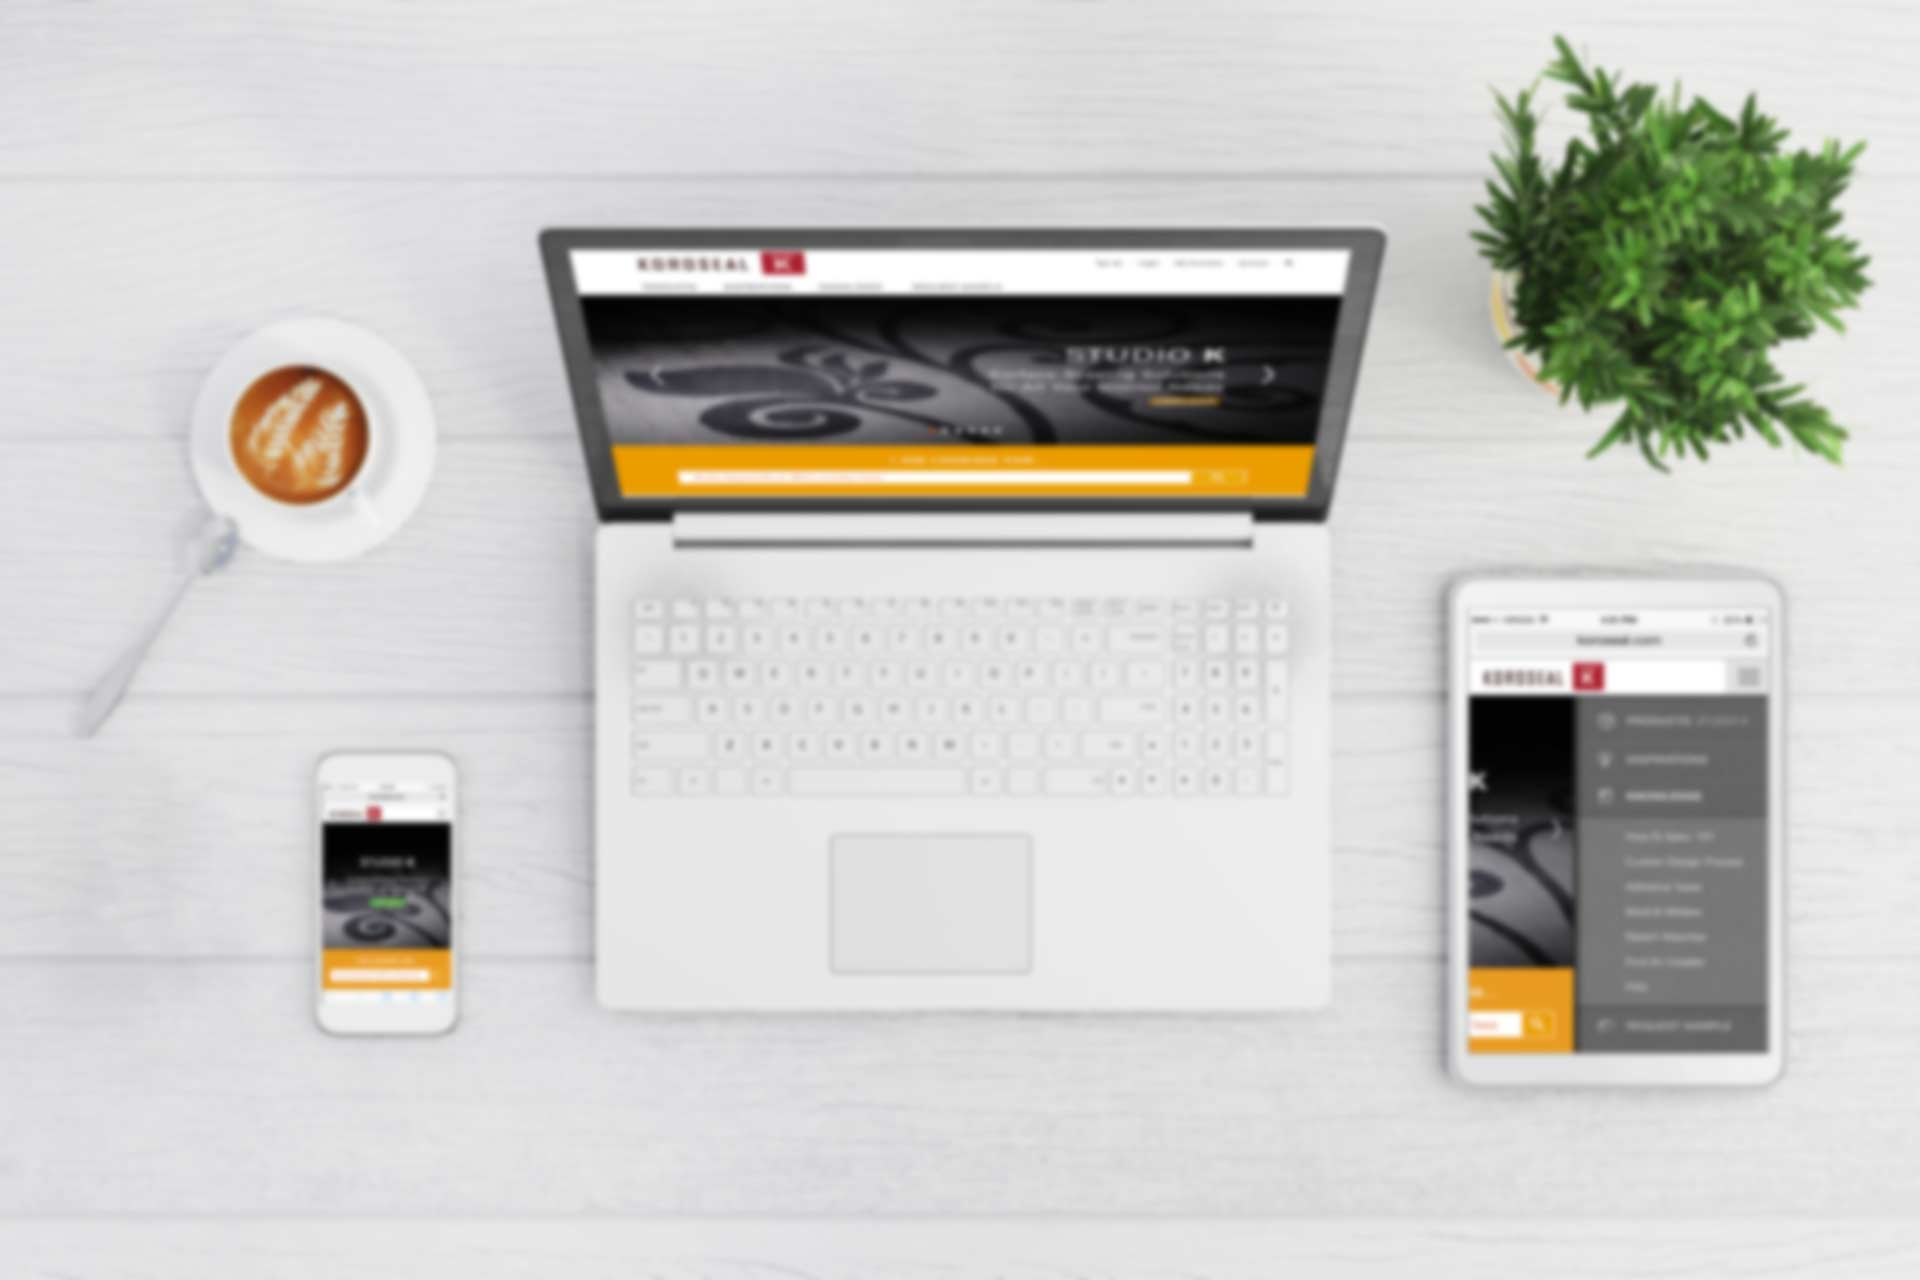
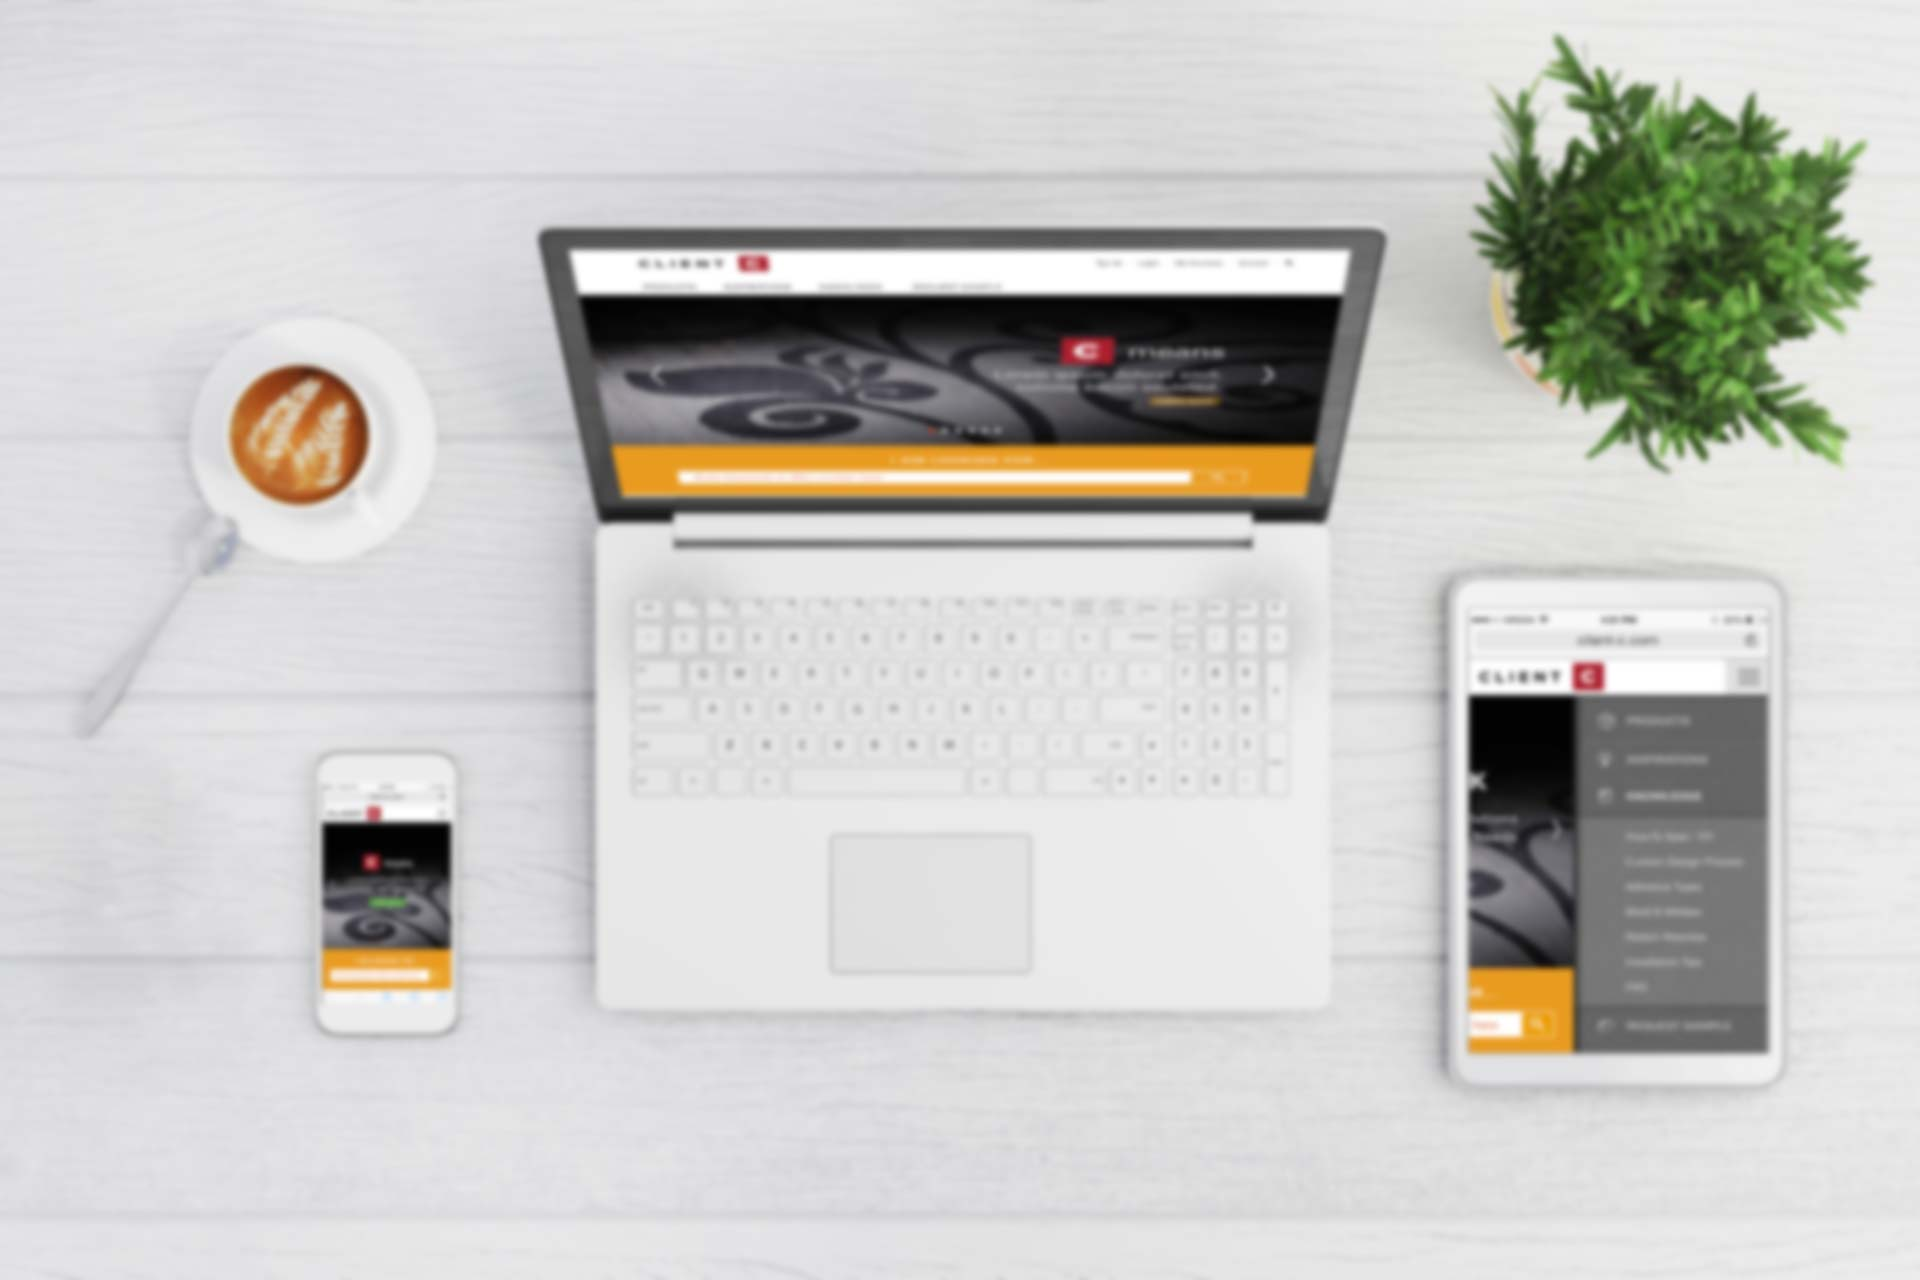
updated koroseal work. wip

diff --git a/_includes/image-grid.html b/_includes/image-grid.html
@@ -1,7 +1,7 @@
 {% for image in page.images %}
 <section class="thumb-box">
   <span class="thumb-img">
-    <a href="/img/portfolio/{{ image.link }}" class="swipebox" title="{{ image.alt }}">
+    <a href="/img/portfolio/{{ image.link }}" rel="portfolio" class="swipebox" title="{{ image.alt }}">
       <img src="/img/portfolio/{{ image.thumb }}" title="{{ image.alt }}">
     </a>
   </span>

diff --git a/_portfolio/koroseal-site.md b/_portfolio/koroseal-site.md
@@ -1,6 +1,6 @@
 ---
 layout: portfolio
-title: "Koroseal redesign concept"
+title: "B2B Corp Site Redesign"
 header_image: "koroseal-header.jpg"
 header_color: "#000"
 header_noshadow: true
@@ -8,44 +8,34 @@ breadcrumb_bg: true
 date: 2017-02-15
 lang: en
 ref: koroseal
-description: "Corporate website restructuring and redesigning"
+description: "Site redesign concept for an interior product client"
 tags:
   - UX/UI design
   - motion design
 tile_image: "koroseal-442x330.gif"
-images:
-  - thumb: "fpo_442x330.png"
-    link: "final-project-sketches_bumhan-yu-2.png"
-    alt: "sample alt tag"
-  - thumb: "fpo_442x330.png"
-    link: "fpo_442x330.png"
-    alt: "another alt"
 category:
   - motion
   - interactive
 ---
+<small><b>NOTE:</b> Due to confidentiality under NDA, client name and other proprietary details are removed.</small>
+<div class="emb-video vimeo koro">
+  <iframe src="https://player.vimeo.com/video/228280461?title=0&byline=0&portrait=0" width="320" height="180" frameborder="0" webkitallowfullscreen mozallowfullscreen allowfullscreen></iframe>
+</div>
+
 <section class="project-summary">
-  <h1>Open source web app that finds three crucial elements in New York street life: <em>wifi, subway, and restrooms.</em></h1>
+  <h1>Site redesign concept for an interior product client</h1>
   <section class="info">
     <h3>Duties:</h3>
-    <p>design, develop</p>
-  </section>
-  <section class="info">
-    <h3>Languages:</h3>
-    <p>JavaScript, <small>HTML/(S)CSS</small></p>
-  </section>
-  <section class="info">
-    <h3>Tools:</h3>
-    <p>Google Maps API, NYC Open Data API, Geocod.io, csvjson.com</p>
+    <p>UX/UI design, motion development</p>
   </section>
   <section class="info">
     <h3>Challenge:</h3>
-    <p>Living and working in New York city means spending quite some time on the streets, and there are three most needed elements in New York street life that just can't be found when we desperately need them: <em>Wifi hotspots, subway entrances, and restrooms</em>.
+    <p>An internationally renowned interior surface product company was struggling with their multitude of product types and keeping up with outdated legacy <small>CMS</small> system. They offered a myriad of architectural products, and confusing categorization and archaic <small>CMS</small> made it extremely difficult for clients to find what they want and for internal teams to manage inventory and update content. <a href="/img/portfolio/k01.jpg" class="swipebox" title="Client's original site (client name and brand elements are removed due to NDA)" rel="koro"><small>(See what their old site looked like)</small></a><a href="/img/portfolio/k02.jpg" class="swipebox" title="Client's original site (client name and brand elements are removed due to NDA)" rel="koro"></a><a href="/img/portfolio/k03.jpg" class="swipebox" title="Client's original site (client name and brand elements are removed due to NDA)" rel="koro"></a><a href="/img/portfolio/k04.jpg" class="swipebox" title="Client's original site (client name and brand elements are removed due to NDA)" rel="koro"></a><a href="/img/portfolio/k05.jpg" class="swipebox" title="Client's original site (client name and brand elements are removed due to NDA)" rel="koro"></a><a href="/img/portfolio/k06.jpg" class="swipebox" title="Client's original site (client name and brand elements are removed due to NDA)" rel="koro"></a><a href="/img/portfolio/k07.jpg" class="swipebox" title="Client's original site (client name and brand elements are removed due to NDA)" rel="koro"></a><a href="/img/portfolio/k08.jpg" class="swipebox" title="Client's original site (client name and brand elements are removed due to NDA)" rel="koro"></a>
     </p>
   </section>
   <section class="info">
     <h3>Solution:</h3>
-    <p>This responsive web app finds the nearest access you have, whether it's subway entrance, WiFi signal, or a public restroom that you need. Taking advantage of <a href="https://opendata.cityofnewyork.us/" target="_blank">NYC Open Data</a> and a handful of NYC restroom datasets available online <em>(<a href="http://www.toiletfinder.com/" target="_blank">here</a>, <a href="http://diaroogle.com/toilets" target="_blank">here</a>, and <a href="http://m3.mappler.net/nyrestroom/" target="_blank">here</a>)</em>, I mapped out each geolocation details. Users can simply drag the map and click each icon, or search location by address or/and zip code. For smoother user experience and reduce server requests, each API call response is stored at <code>localStorage</code>, which ensures to minimize unnecessary API calls and thus faster response to user actions.
+    <p>We completely restructured the site user flow and reorganized entire product category system. Each of their product categories were so interrelated in complicated specs that no off-the-shelf <small>CMS</small> could handle, so we proposed a custom-<small>CMS</small> with tailored modules such as product configurator and proprietary collage tools. For in-depth filtering and searching across product portfolio was indispensable for users, we also planned out exhaustive database structure to implement comprehensive functionality. I developed the full site wireframe, designed the user flow, built visual mockups, and created the motion presentation for clients.
     </p>
   </section>
 </section>

diff --git a/_portfolio/plan-a-movie-night-app.md b/_portfolio/plan-a-movie-night-app.md
@@ -40,12 +40,12 @@ category:
   </section>
   <section class="info">
     <h3>Challenge:</h3>
-    <p>At the core of this self-initiated team project was the need for an impeccable recommendation engine. When organizing a movie night with friends, choosing the film to watch together can be a painful process. The larger the group, the harder to select the perfect movie that <em>everybody</em> would enjoy watching. How do you make it easy to gather friends, pick time and place, and most importantly, select the perfect film to screen?
+    <p>When organizing a movie night with friends, choosing the film to watch together can be a painful process. The larger the group, the harder to select the perfect movie that <em>everybody</em> would enjoy watching. How do you make it easy to gather friends, pick time and place, and most importantly, select the perfect film to screen?
     </p>
   </section>
   <section class="info">
     <h3>Solution:</h3>
-    <p>The app would present you a wide range of films in an <small>IMDb</small>-like manner, through which users can browse and learn more about each film. At each review, users are asked three simple questions: <em>1) did you watch this film? 2) would you watch it with your friends? 3) how bad do you want to watch it?</em> As user's answers accumulate, the app cross-references and analyzes movie tastes between friends connected via Facebook. Now, when ready for a gathering, simply choose the date and time, send invitation to friends, and the app will take care of the rest by recommending the impeccable film to watch together.
+    <p>At the core of this project was the need for an impeccable recommendation engine. The app would present you a wide range of films in an <small>IMDb</small>-like manner, through which users can browse and learn more about each film. At each review, users are asked three simple questions: <em><small>1) did you watch this film? 2) would you watch it with your friends? 3) how bad do you want to watch it?</small></em> As user's answers accumulate, the app cross-references and analyzes movie tastes between friends connected via Facebook. Now, when ready for a gathering, simply choose the date and time, send invitation to friends, and the app will take care of the rest by recommending the impeccable film to watch together.
     </p>
   </section>
   <section class="info">
